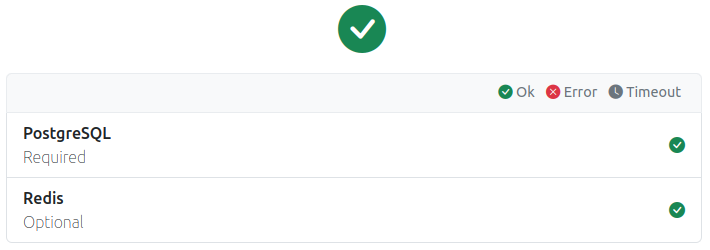
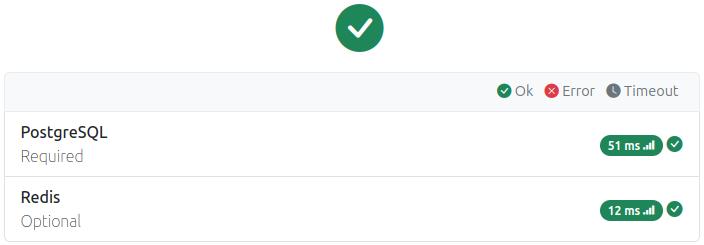
Add latency to html
include latency status to the result also, differentiating
between 3 latency levels - low, med, high. Levels are
configurable for each check.

Related: #4

diff --git a/src/http.ts b/src/http.ts
@@ -1,4 +1,4 @@
-import { CheckStatus, Result, Status } from './healthz'
+import { CheckStatus, LatencyStatus, Result, Status } from './healthz'
 
 export function jsonResult(result: Result) {
   return {
@@ -45,7 +45,16 @@ export function htmlResult(result: Result) {
                 </div>
             </li>
           ${result.checks
-            .map(x => html('service', { title: x.id, required: x.required, status: x.status, output: String(x.output ?? '') }))
+            .map((x) =>
+              html('service', {
+                title: x.id,
+                required: x.required,
+                status: x.status,
+                output: String(x.output ?? ''),
+                latencyStatus: x.latencyStatus,
+                latencyMs: x.latency,
+              }),
+            )
             .join('\n')}
       </ul>
   </div>
@@ -55,7 +64,7 @@ export function htmlResult(result: Result) {
   `
 }
 
-function html(piece: 'healthy' | 'unhealthy' | 'service' | 'check-ok' | 'check-error' | 'check-timeout', arg?: { title?: string, required?: boolean, status?: CheckStatus, output?: string }): string {
+function html(piece: 'healthy' | 'unhealthy' | 'service' | 'check-ok' | 'check-error' | 'check-timeout' | 'latency' | 'latency-low' | 'latency-medium' | 'latency-high', arg?: { latencyMs?: number, latencyStatus?: LatencyStatus, title?: string, required?: boolean, status?: CheckStatus, output?: string }): string {
   switch (piece) {
     case 'healthy':
       return '<i class="bi bi-check-circle-fill text-success " style="font-size: 3em;"></i>'
@@ -67,6 +76,18 @@ function html(piece: 'healthy' | 'unhealthy' | 'service' | 'check-ok' | 'check-e
       return `<i class="bi bi-x-circle-fill text-danger" title="${arg?.output ?? ''}"></i>`
     case 'check-timeout':
       return `<i class="bi bi-clock-fill text-secondary" title="${arg?.output ?? ''}"></i>`
+    case 'latency':
+      if (arg?.latencyStatus === LatencyStatus.Low)
+        return html('latency-low', arg)
+      if (arg?.latencyStatus === LatencyStatus.Medium)
+        return html('latency-medium', arg)
+      return html('latency-high', arg)
+    case 'latency-low':
+      return `<span class="badge rounded-pill text-bg-success">${arg?.latencyMs ?? '??'} ms <i class="bi bi-reception-4"></i></span>`
+    case 'latency-medium':
+      return `<span class="badge rounded-pill text-bg-warning">${arg?.latencyMs ?? '??'} ms <i class="bi bi-reception-2"></i></span>`
+    case 'latency-high':
+      return `<span class="badge rounded-pill text-bg-danger">${arg?.latencyMs ?? '??'} ms <i class="bi bi-reception-1"></i></span>`
     case 'service':
       return `<li class="list-group-item d-flex justify-content-between align-items-center">
       <div>
@@ -74,7 +95,10 @@ function html(piece: 'healthy' | 'unhealthy' | 'service' | 'check-ok' | 'check-e
       <br>
         <span class="fw-lighter">${arg?.required ? 'Required' : 'Optional'}</span>
       </div>
-      <span>${arg?.status === CheckStatus.Ok ? html('check-ok') : arg?.status === CheckStatus.Error ? html('check-error') : html('check-timeout')}</span>
+      <div>
+        ${html('latency', arg)}
+        <span>${arg?.status === CheckStatus.Ok ? html('check-ok') : arg?.status === CheckStatus.Error ? html('check-error') : html('check-timeout')}</span>
+      </div>
   </li>
       `
     default:

diff --git a/src/healthz.ts b/src/healthz.ts
@@ -11,6 +11,7 @@ export interface Config {
     required: boolean
     fn: () => Promise<unknown>
     maskOutput: boolean
+    latencyLevels: [number, number]
   }>
   timeout: number
 }
@@ -36,6 +37,7 @@ export interface CheckResult {
    * Milliseconds it took the check to finish. Wall clock time.
    */
   latency: number
+  latencyStatus: LatencyStatus
 }
 
 export interface Option {
@@ -64,6 +66,13 @@ export interface Option {
      * @default true
      */
     maskOutput?: boolean
+    /**
+     * Latency levels for Low, Medium and High latency.
+     * It is expected that [0] < [1]. For example `latency < [0]` -> Low,
+     * `latency >= [0] && latency < [1]` -> medium, everything else is High
+     * @default [100, 500]
+     */
+    latencyLevents?: [number, number]
   }>
   /**
    * How many milliseconds to wait for the check to complete. It if fails
@@ -81,6 +90,7 @@ export function createConfig(option?: Option): Config {
         required: x.required ?? false,
         fn: x.fn,
         maskOutput: x.maskOutput ?? true,
+        latencyLevels: x.latencyLevents ?? [100, 500],
       })) ?? [],
     timeout: option?.timeout ?? 5_000,
   }
@@ -92,6 +102,12 @@ export function check(option?: Option) {
 }
 
 type RawCheckResult = Pick<CheckResult, 'latency' | 'rawOutput' | 'status'>
+
+export enum LatencyStatus {
+  Low,
+  Medium,
+  High,
+}
 
 async function checkForConfig(config: Config): Promise<Result> {
   const t0 = Date.now()
@@ -129,8 +145,15 @@ async function checkForConfig(config: Config): Promise<Result> {
       rawOutput: results[i].rawOutput,
       latency: results[i].latency,
       required: x.required,
+      latencyStatus: latencyStatus(x.latencyLevels, results[i].latency)
     })),
   }
+}
+
+function latencyStatus(levels: [number, number], latency: number): LatencyStatus {
+  if (latency < levels[0]) return LatencyStatus.Low
+  if (latency < levels[1]) return LatencyStatus.Medium
+  return LatencyStatus.High
 }
 
 function createTimeout(ms: number) {

diff --git a/src/healthz.test.ts b/src/healthz.test.ts
@@ -1,6 +1,6 @@
 import test, { describe } from 'node:test'
-import { Status, createConfig, check } from './healthz'
-import { equal } from 'node:assert'
+import { Status, createConfig, check, LatencyStatus } from './healthz'
+import { deepEqual, equal } from 'node:assert'
 
 describe('healthz', () => {
   test('Health check results are masked by default', async () => {
@@ -52,5 +52,34 @@ describe('healthz', () => {
       ],
     })
     equal(result.status, Status.Healthy)
+  })
+  test('Latency status thresholds can be set and are 100 and 500 by default', async () => {
+    deepEqual(
+      createConfig({ checks: [{ fn: async () => '', id: 'test' }] }).checks[0]
+        .latencyLevels,
+      [100, 500],
+    )
+    const result = await check({
+      checks: [
+        {
+          id: 'check',
+          fn: () => new Promise((resolve) => setTimeout(resolve, 10)),
+          latencyLevents: [20, 120],
+        },
+        {
+          id: 'check',
+          fn: () => new Promise((resolve) => setTimeout(resolve, 100)),
+          latencyLevents: [20, 120],
+        },
+        {
+          id: 'check',
+          fn: () => new Promise((resolve) => setTimeout(resolve, 200)),
+          latencyLevents: [20, 120],
+        },
+      ],
+    })
+    equal(result.checks[0].latencyStatus, LatencyStatus.Low)
+    equal(result.checks[1].latencyStatus, LatencyStatus.Medium)
+    equal(result.checks[2].latencyStatus, LatencyStatus.High)
   })
 })

diff --git a/src/http.test.ts b/src/http.test.ts
@@ -1,6 +1,6 @@
 import test, { describe } from 'node:test'
 import { htmlResult, jsonResult, resultStatusCode } from './http'
-import { CheckStatus, Status } from './healthz'
+import { CheckStatus, LatencyStatus, Status } from './healthz'
 import { deepEqual, equal } from 'node:assert'
 
 describe('http', () => {
@@ -31,6 +31,7 @@ describe('http', () => {
             rawOutput: 'ro',
             required: true,
             status: CheckStatus.Ok,
+            latencyStatus: LatencyStatus.Medium,
           },
         ],
         status: Status.Healthy,
@@ -59,6 +60,7 @@ describe('http', () => {
           rawOutput: 'ro',
           required: true,
           status: CheckStatus.Ok,
+          latencyStatus: LatencyStatus.Medium,
         },
       ],
       status: Status.Healthy,

diff --git a/README.md b/README.md
@@ -1,6 +1,6 @@
 # node-healthz
 
-![HTML Preview](https://raw.githubusercontent.com/smoliji/node-healthz/fc4aad102264fe4241cbf3b0c02edfd3a2eb3af5/html-preview.png "node-healthz HTML Preview")
+![HTML Preview](https://raw.githubusercontent.com/AckeeCZ/node-healthz/837e9351f326efeca2f46e64fc650899ad6befa8/html-preview.png "node-healthz HTML Preview")
 
 
 The "health-checkup" npm package simplifies the process of implementing health checks in Node.js applications, allowing you to ensure the reliability and availability of your system components effortlessly.

diff --git a/CHANGELOG.md b/CHANGELOG.md
@@ -2,6 +2,11 @@
 
 ## [Unreleased]
 
+### Added
+
+- Latency status
+- Latency to the HTML view
+
 ### [2.0.1] 2024-05-31
 
 ### Added
